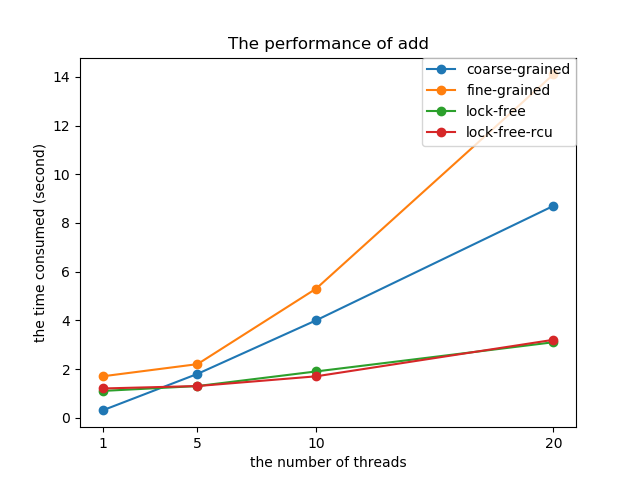
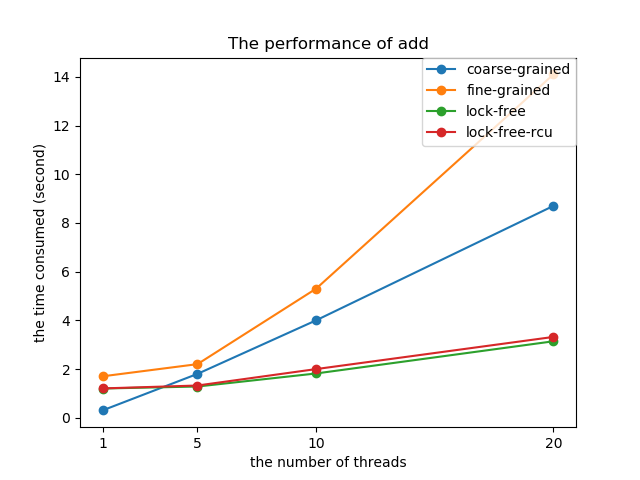
update readme.md

Changed region(s): [[0.1875, 0.6875, 0.875, 0.8125], [0.1562, 0.8125, 0.1875, 0.8438]]

diff --git a/list/result_report/pic.py b/list/result_report/pic.py
@@ -4,20 +4,20 @@ import matplotlib.pyplot as plt
 x = [1, 5, 10, 20]
 
 # add performance
-#coarse = [0.3, 1.8, 4.0, 8.7]
-#fine = [1.7, 2.2, 5.3, 14.1]
-#lock_free = [1.1, 1.3, 1.9, 3.1]
-#lock_free_rcu = [1.2, 1.3, 1.7, 3.2]
-#title = 'The performance of add'
-#fname = 'Add_to_list_performance.png'
+coarse = [0.3, 1.8, 4.0, 8.7]
+fine = [1.7, 2.2, 5.3, 14.1]
+lock_free = [1.19833, 1.28093, 1.81707, 3.13864]
+lock_free_rcu = [1.20253, 1.3221, 1.99714, 3.31791]
+title = 'The performance of add'
+fname = 'Add_to_list_performance.png'
 
 # delete performance
-coarse = [0.332658, 0.946826, 1.65139, 4.7045]
-fine = [1.68914, 2.69389, 4.9484, 12.8524]
-lock_free = [1.1877, 1.17583, 1.17385, 2.52614]
-lock_free_rcu = [1.25902, 1.25339, 1.3765, 3.09896]
-title = 'The performance of delete'
-fname = 'Delete_to_list_performance.png'
+#coarse = [0.332658, 0.946826, 1.65139, 4.7045]
+#fine = [1.68914, 2.69389, 4.9484, 12.8524]
+#lock_free = [1.1877, 1.17583, 1.17385, 2.52614]
+#lock_free_rcu = [1.25902, 1.25339, 1.3765, 3.09896]
+#title = 'The performance of delete'
+#fname = 'Delete_to_list_performance.png'
 
 # hybird performance
 #x = [5, 10, 15]

diff --git a/README.md b/README.md
@@ -2,23 +2,38 @@ Lock-Free List
 --------------
 
 对比了单机多核环境下，支持多线程操作的数据结构，采用**不同的同步方式**，对性能的影响。数据结构采用**有序链表实现的集合**，支持插入，删除，查询，它们均是线程安全的。对比了以下同步方式：<br>
-  * 粗力度锁（coarse_grained lock）
-  * 细力度锁（fine_grained lock）
-  * 无锁（lock_free）
-  * 无锁 + 垃圾回收（lock_free + rcu）
+  * 粗力度锁（coarse-grained lock）
+  * 细力度锁（fine-grained lock）
+  * 无锁（lock-free）
+  * 无锁 + 垃圾回收（lock-free + rcu）
 
-## 效果对比
-#### 实验机器配置
+#### 实验机器
 8核，支持8线程
 
-#### 添加操作
+#### ====================== 添加元素 ======================
 ![The Performance of Add](https://github.com/alwaysR9/lock_free_ds/blob/master/list/result_report/Add_to_list_performance.png)<br>
-**链表初始化为空，开启多线程，每个线程插入10000个互异元素。**<br>
-随着线程数量增加，**无锁（lock-free, lock-free-rcu）**耗时并没有显著增加，在多于10个线程时，CPU利用率可以达到接近800%，**充分的利用了多核，并发程度最高**; **粗粒度锁(coarse-grained)**耗时与线程数量成正比，CPU利用率约100%，**仅有一个核心在工作**; 虽然**细粒度锁(fine-grained)**的并发程度明显高于粗粒度锁（CPU使用率约400%），但**频繁的加锁，解锁**导致耗时甚至多于粗粒度锁。<br>
-#### 删除操作
+
+#### ====================== 删除元素 ======================
 ![The Performance of Delete](https://github.com/alwaysR9/lock_free_ds/blob/master/list/result_report/Delete_to_list_performance.png)<br>
-**链表初始化包含10000个元素，开启多线程，每个线程对链表中的10000个元素进行删除操作。**<br>
-无锁（lock-free, lock-free-rcu）耗时最少，并且，**垃圾回收（lock-free-rcu）**产生的**性能损耗**相对加锁**较小**。<br>
-#### 40%插入，40%查询，20%删除
+
+#### ====================== 40%插入，40%查询，20%删除 ======================
 ![The Performance of 40% Add, 40% Loop up, 20% Delete](https://github.com/alwaysR9/lock_free_ds/blob/master/list/result_report/mixed_op_to_list_performance.png)<br>
-链表初始化包含10000个元素，开启多线程，每个线程执行一类操作，共三类操作：随机插入10000个元素，随机删除10000个元素，随机查询10000个元素。插入，查询，删除的线程比例为40%:40%:20%。<br>
+
+#### ====================== 总结 ======================
+1. 在并发情境下，完成相同的操作：
+  - 无锁链表，运行时间最少; 可以充分利用多核(CPU利用率可达800%)，并行度最高。
+  - 粗粒度锁链表，运行时间较长; 只能利用一个核(CPU占用率100%)。
+  - 细粒度锁链表，运行时间最长(甚至超过粗粒度锁链表，这是频繁的锁操作造成的); 可以利用多核，但不充分(CPU利用率最多约400%)。
+2. 对于无锁链表，进行垃圾回收：
+  - 垃圾回收带来的性能损失，相比于加锁链表的运行耗时非常小。
+  - 垃圾回收的主要时间开销在STL list操作和保证垃圾回收线程安全的全局锁。
+3. 测试
+  - 包括：并发情境的正确性测试，性能测试，内存泄漏检查
+
+#### ====================== 重要参考资料 ======================
+多种同步方式介绍(包括无锁数据结构的垃圾回收方法)：
+https://people.eecs.berkeley.edu/~stephentu/presentations/workshop.pdf
+无锁链表：
+https://www.cl.cam.ac.uk/research/srg/netos/papers/2001-caslists.pdf
+无锁数据结构的**批量**垃圾回收方法：
+https://en.wikipedia.org/wiki/Read-copy-update
